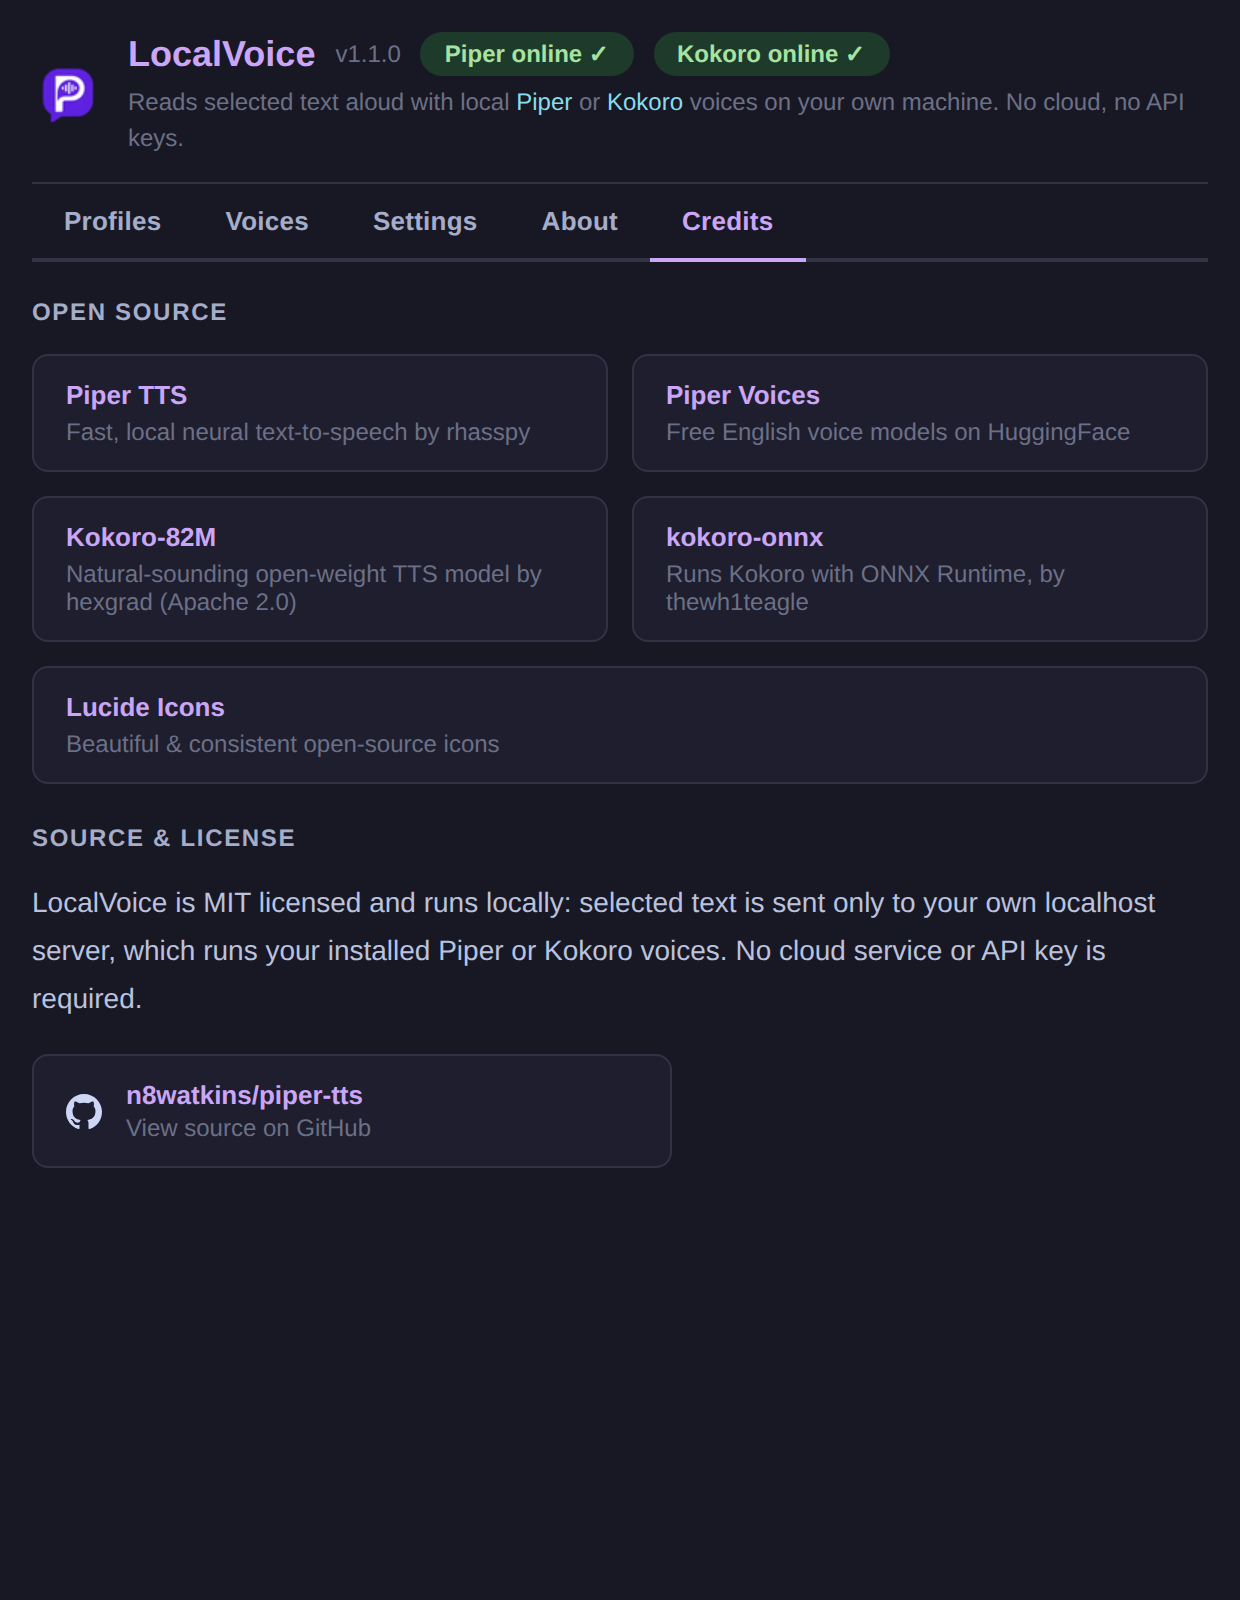
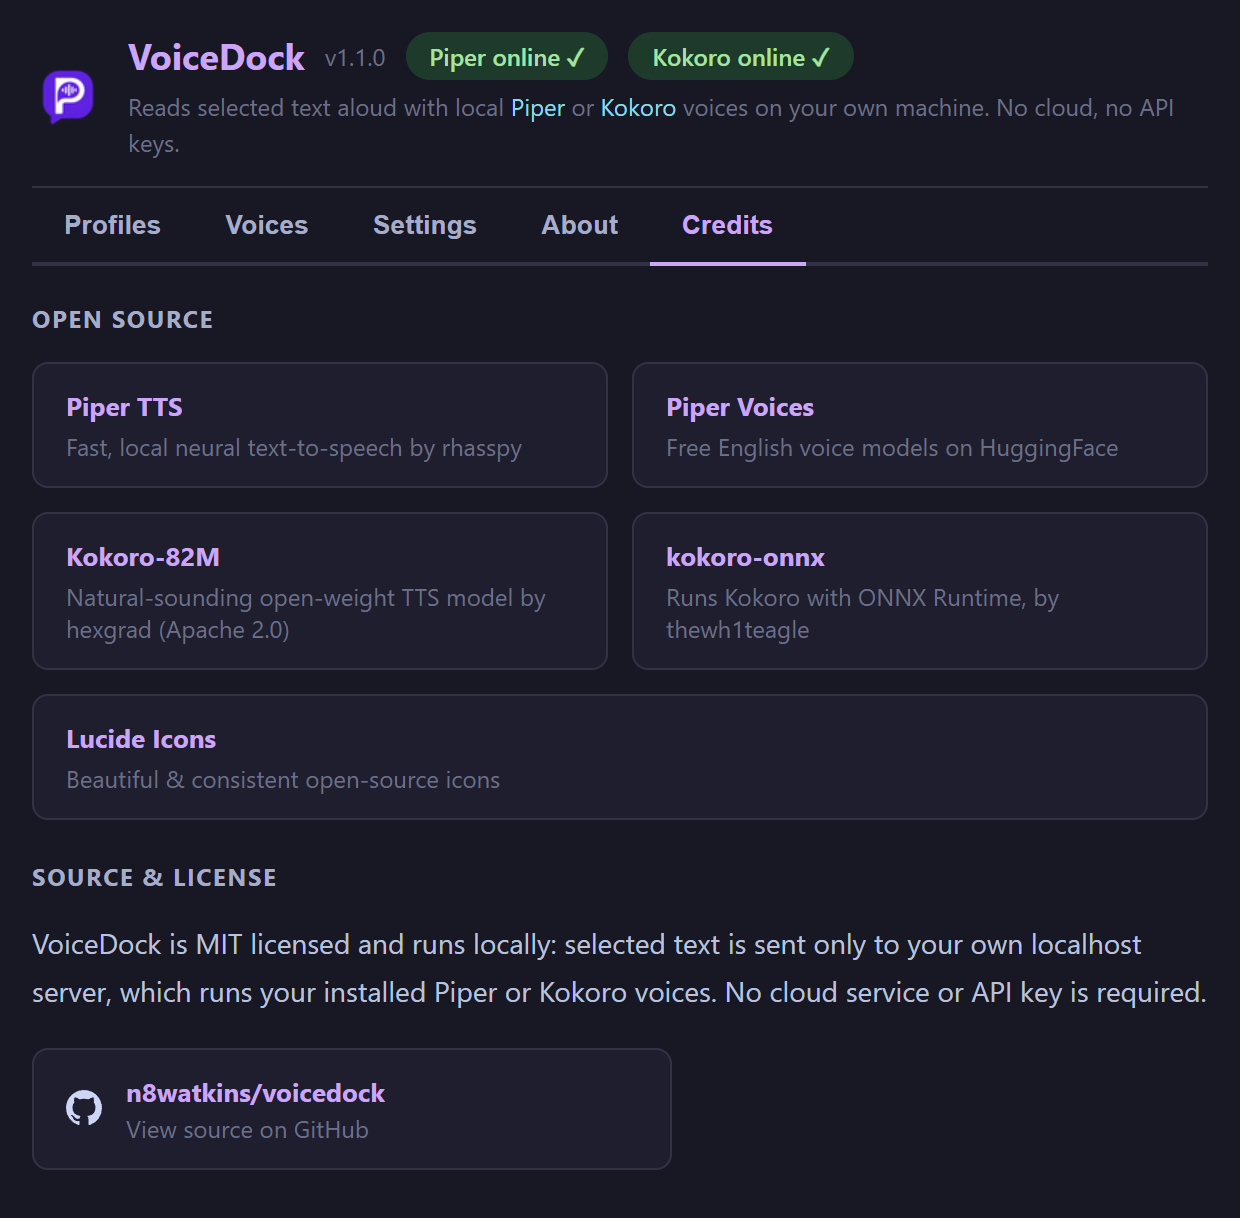
docs: refresh screenshots for VoiceDock
The capture script waited for the old "Piper TTS" text; it now waits for the manifest name.

diff --git a/README.md b/README.md
@@ -18,11 +18,11 @@ The browser's built-in voice is a third choice and the automatic fallback when a
 
 ## Screenshots
 
-<img src="screenshots/popup.png" alt="VoiceDock popup showing a Kokoro profile with speed, volume, test, and stop controls" width="300">
+<img src="screenshots/popup.png" alt="VoiceDock popup showing a Piper profile with speed, volume, test, and stop controls" width="300">
 
-<img src="screenshots/options-profiles.png" alt="Profiles tab, editing a profile that uses the Kokoro engine" width="560">
+<img src="screenshots/options-profiles.png" alt="Profiles tab with Piper and Kokoro profiles" width="560">
 
-<img src="screenshots/options-voices.png" alt="Voices tab listing Kokoro voices, with a switch between Piper and Kokoro" width="560">
+<img src="screenshots/options-voices.png" alt="Voices tab listing Piper voices, with a switch between Piper and Kokoro" width="560">
 
 <img src="screenshots/options-settings.png" alt="Settings tab with the browser fallback, both engine servers, and keyboard shortcuts" width="560">
 
